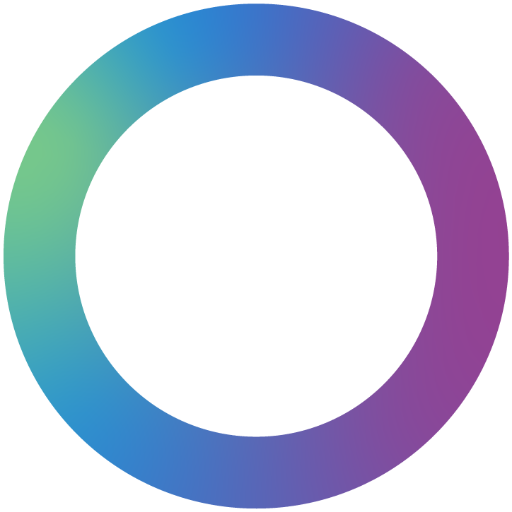
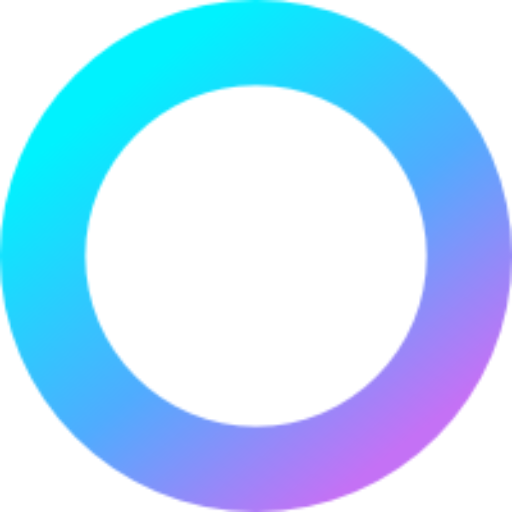
Updating branding/styles

diff --git a/src/css/global/_colors.scss b/src/css/global/_colors.scss
@@ -27,7 +27,7 @@ body.body--light {
     $accent-3: #DDD1FF;
     $accent-4: #A5A6F6;
     $accent-5: #F7F5FF;
-    $site-gradient: linear-gradient(0.4turn, #071033, #6039A4);
+    $site-gradient: linear-gradient(0.4turn, rgba(0, 242, 254, 0.4), rgba(196, 113, 245, 0.5));
     $tooltip-gradient: linear-gradient(0.2turn, rgba(#071033, 0.8), rgba(#6039A4, 0.8));
     $high-contrast-text-color: #282828;
     $default-contrast-text-color: #4D4D4D;
@@ -58,9 +58,10 @@ body.body--light {
 
     --bg-color: #{$canvas};
     --site-gradient: #{$site-gradient};
+    --menu-gradient: linear-gradient(0.4turn, #0891b2, #8b5cf6);
 
     --card-background-color: #{$canvas};
-    --header-background-color: #{$accent-5};
+    --header-background-color: #{$site-gradient};
     --display-telos-branding-bg: none;
 
     --q-primary: #{$primary} !important;
@@ -112,7 +113,7 @@ body.body--dark {
     $menu-text: #fff;
     $canvas: #111;
 
-    $site-gradient: linear-gradient(0.7turn, #1d1d1d, #1e2931);
+    $site-gradient: linear-gradient(0.7turn, #0a0a0b, #1a1625);
     $tooltip-gradient: linear-gradient(0.2turn, rgba(#232a30, 0.8), rgba(#173246, 0.8));
 
 
@@ -137,6 +138,7 @@ body.body--dark {
 
     --bg-color: #{$canvas};
     --site-gradient: #{$site-gradient};
+    --menu-gradient: #{$site-gradient};
 
     --card-background-color: #{$dark};
     --header-background-color: var(--card-background-color);

diff --git a/src/css/quasar.variables.sass b/src/css/quasar.variables.sass
@@ -12,9 +12,9 @@
 // to match your app's branding.
 // Tip: Use the "Theme Builder" on Quasar's documentation website.
 
-$primary     : #571aff
-$secondary   : #dfdfed
-$accent      : #505DCD
+$primary     : #0891b2
+$secondary   : #3b82f6
+$accent      : #8b5cf6
 
 $positive    : #255B00
 $negative    : #880000
@@ -23,9 +23,9 @@ $warning     : #AD6500
 
 $dark        : #1d1d1d
 
-$d-primary   : #348DCC
-$d-secondary : #8B3F98
-$d-accent    : #73C58F
+$d-primary   : #00F2FE
+$d-secondary : #4FACFE
+$d-accent    : #C471F5
 
 $d-positive  : #398f00
 $d-negative  : #CC0000

diff --git a/src/components/evm/AppNav.vue b/src/components/evm/AppNav.vue
@@ -511,7 +511,7 @@ export default defineComponent({
         width: 100vw;
         transform: translateX(-100%);
         transition: 0.2s transform ease;
-        background: var(--site-gradient);
+        background: var(--menu-gradient);
         z-index: $z-index--menu;
 
         &--open {
